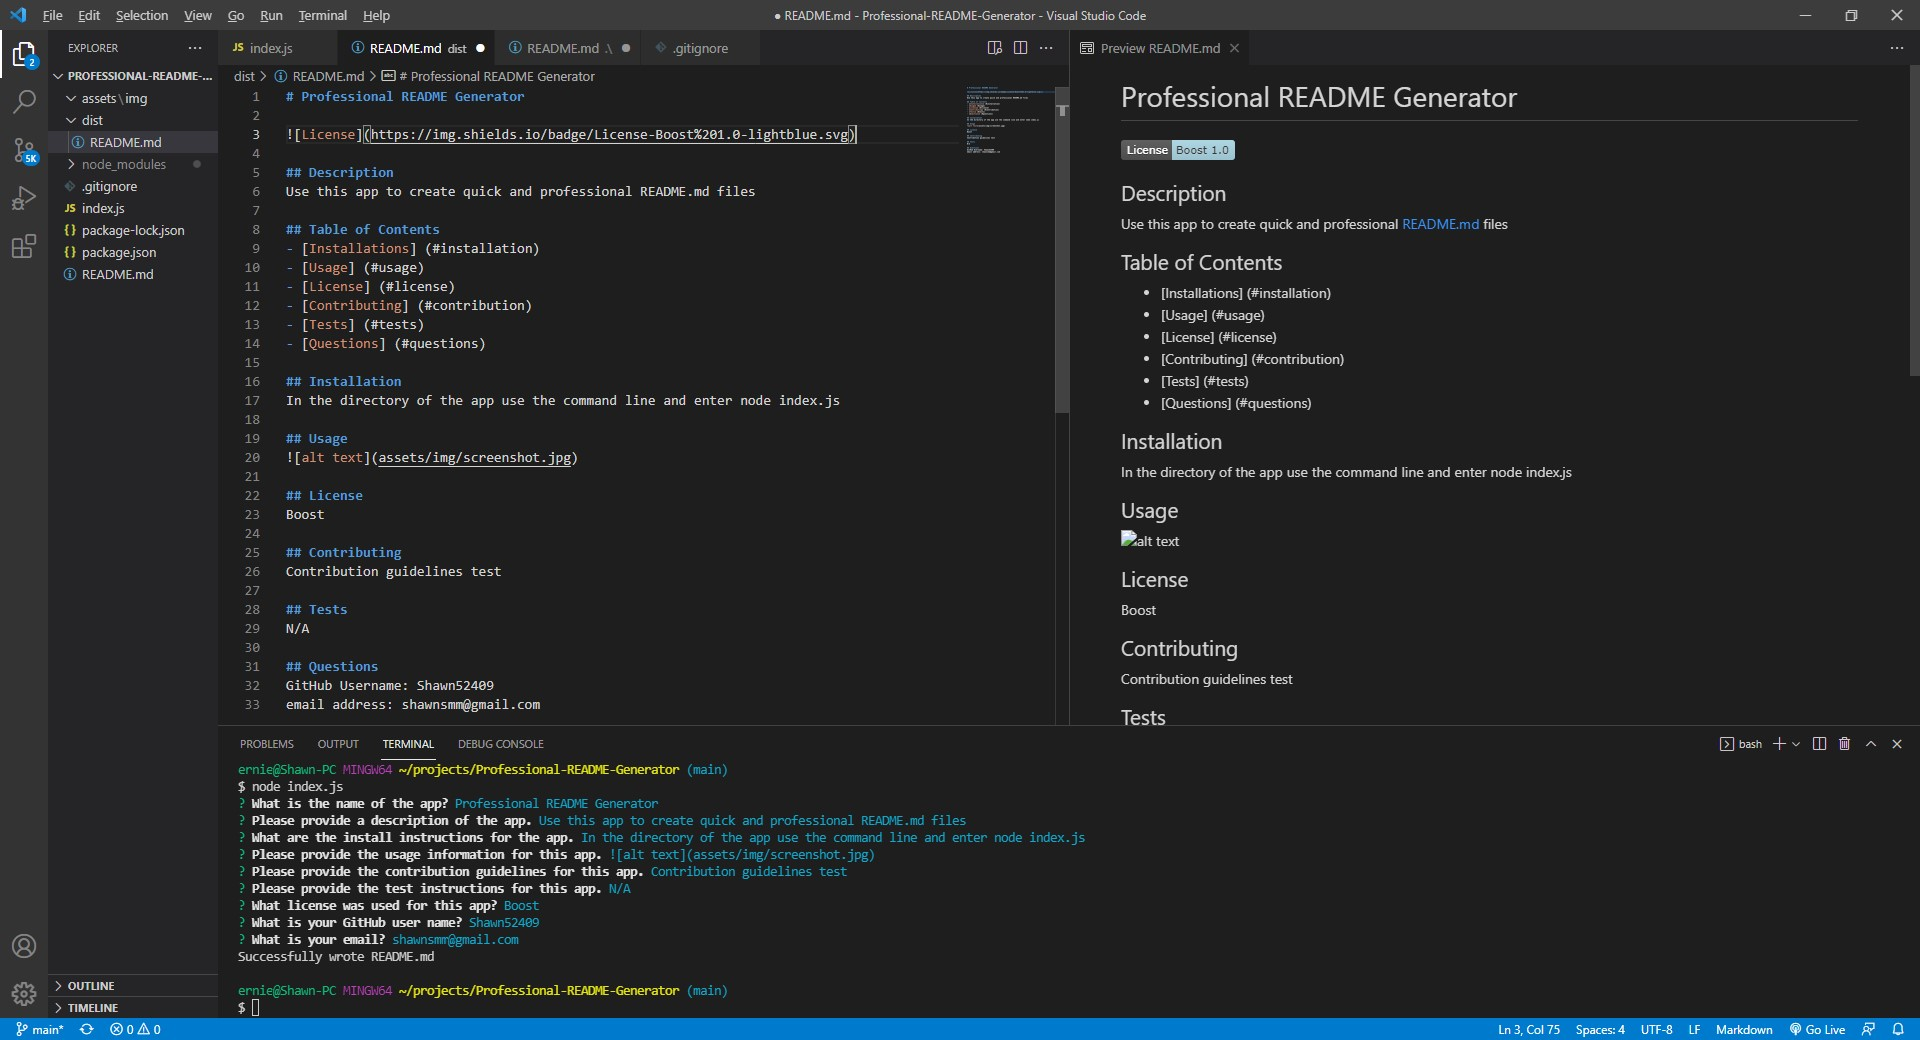
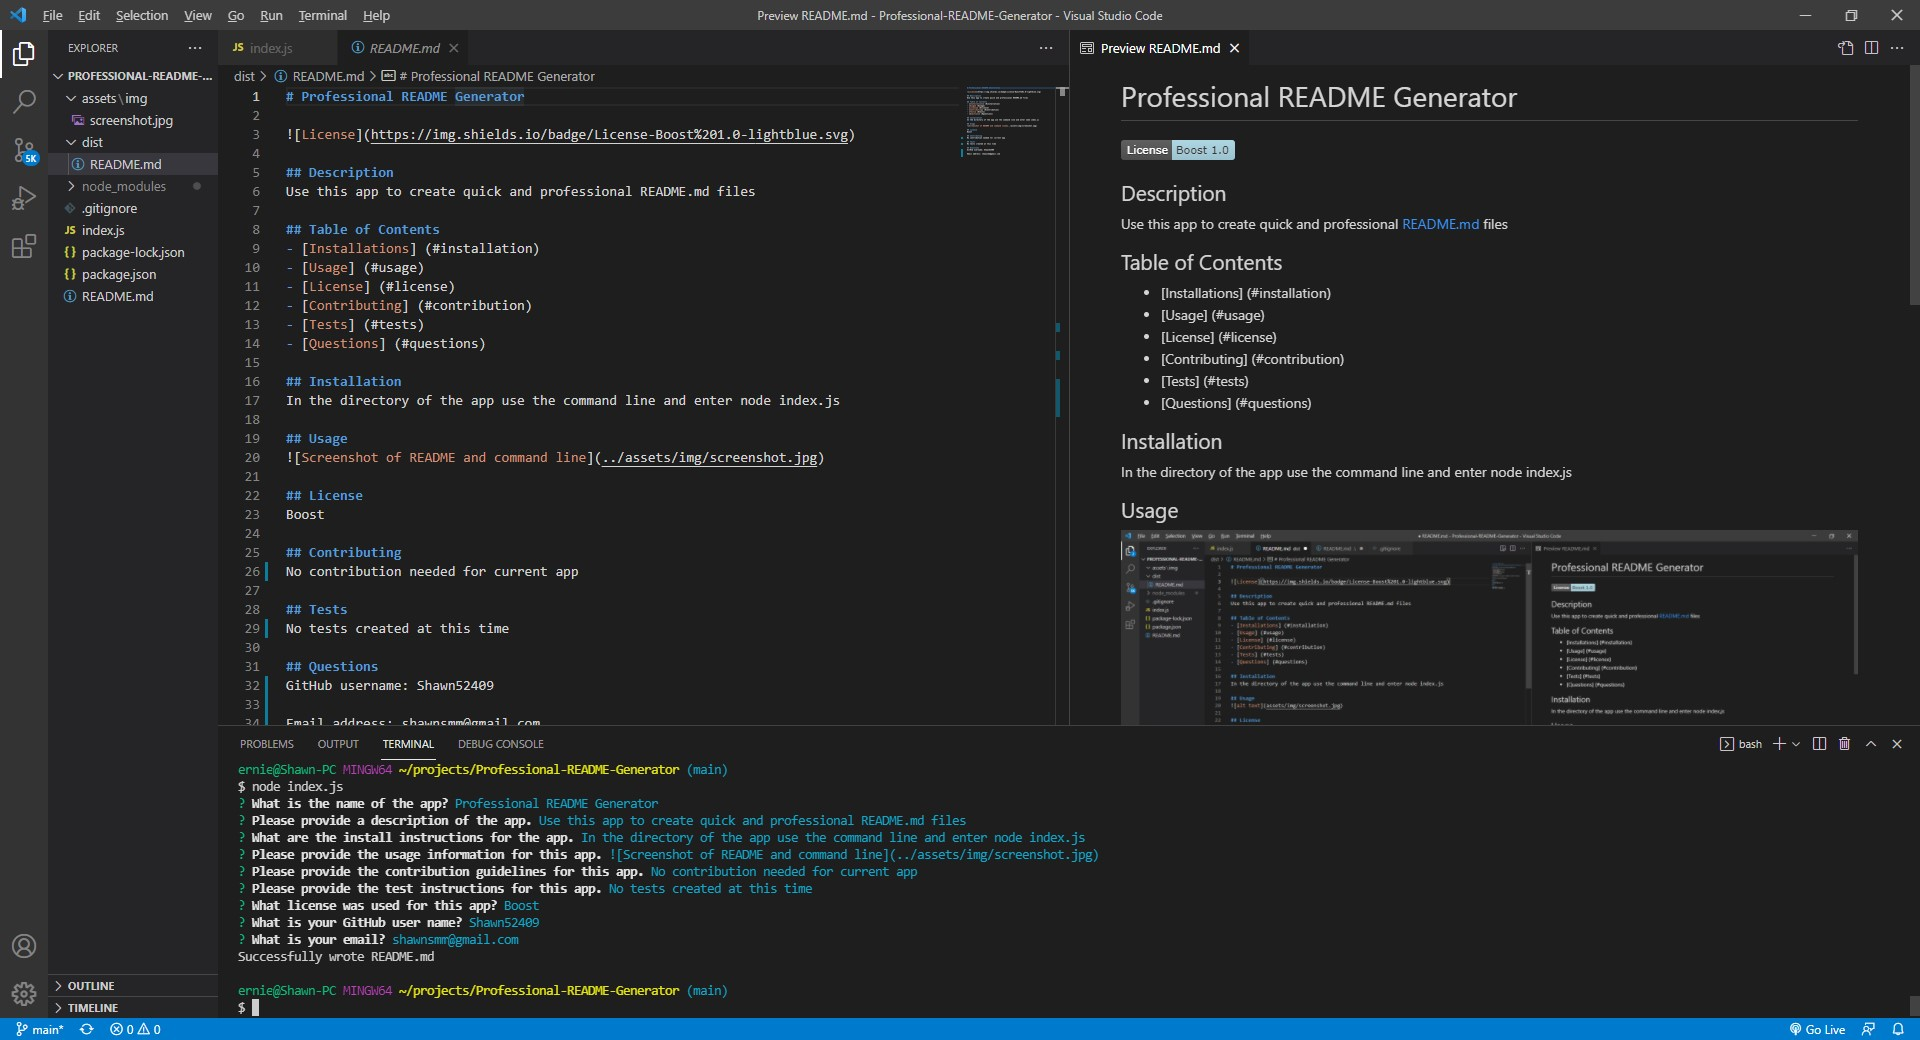
Better screenshoot, newly created README, small style changes on index.js

diff --git a/index.js b/index.js
@@ -71,7 +71,7 @@ if (answers.license === 'Apache'){
   var licenseBadge = '![License](https://img.shields.io/badge/License-BSD%202--Clause-orange.svg)';
 }
 
-  var results =
+var results =
 `# ${answers.title}
 
 ${licenseBadge}
@@ -103,9 +103,10 @@ ${answers.contributionGuidelines}
 ${answers.testInstructions}
 
 ## Questions
-GitHub Username: ${answers.gitHubUserName}
-email address: ${answers.email}`;
+GitHub username: ${answers.gitHubUserName}
 
+Email address: ${answers.email}
+`;
 return results;
 };
 

diff --git a/dist/README.md b/dist/README.md
@@ -23,11 +23,12 @@ In the directory of the app use the command line and enter node index.js
 Boost
 
 ## Contributing
-Contribution guidelines test
+No contribution needed for current app
 
 ## Tests
-N/A
+No tests created at this time
 
 ## Questions
-GitHub Username: Shawn52409
-email address: shawnsmm@gmail.com
+GitHub username: Shawn52409
+
+Email address: shawnsmm@gmail.com
